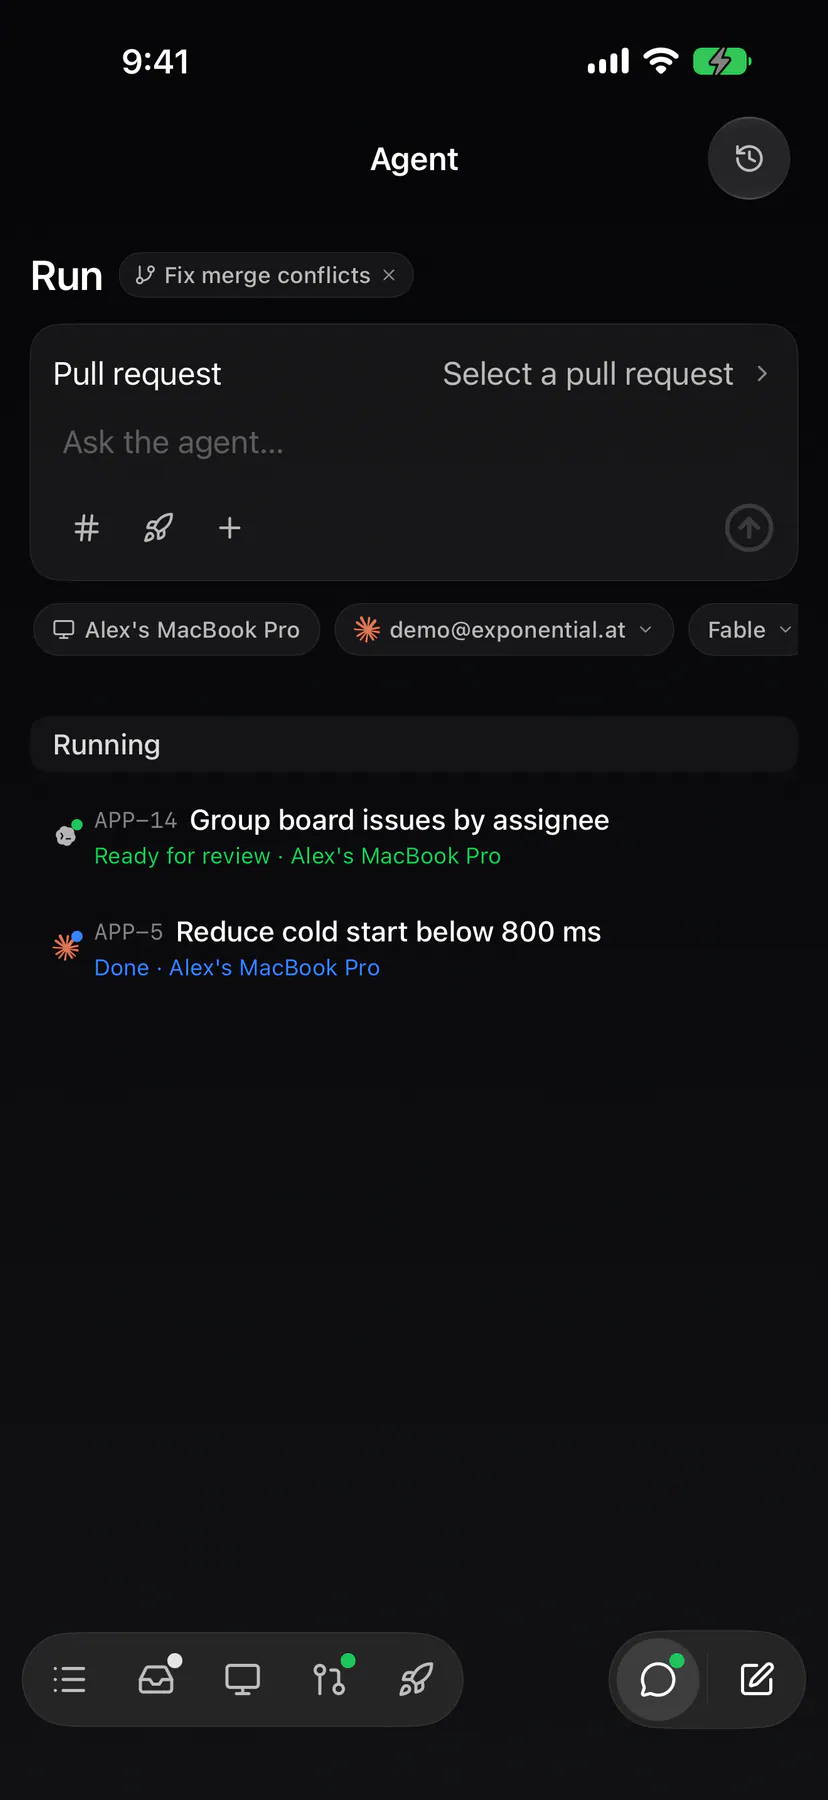
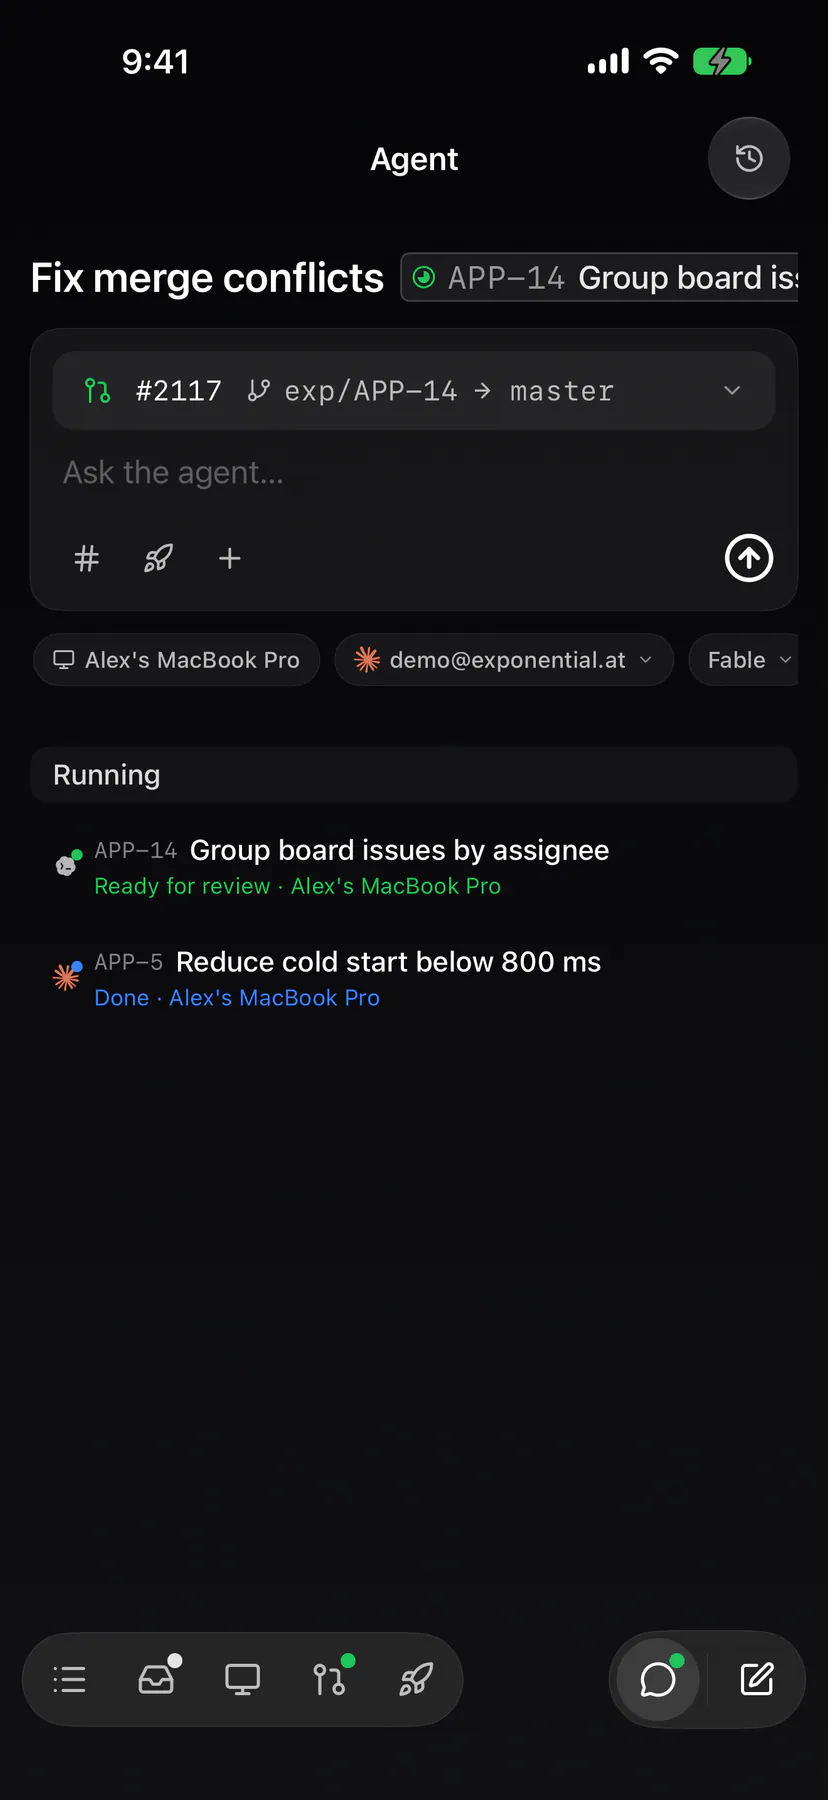
EXP-1233: iOS: the PR number verbatim (no locale grouping), a sturdier sg_chat-action pick; the ios chat-action shot

diff --git a/apps/ios/ExponentialUITests/StyleguideScreenshots.swift b/apps/ios/ExponentialUITests/StyleguideScreenshots.swift
@@ -447,8 +447,17 @@ final class StyleguideScreenshots: XCTestCase {
         // headline's verb + the PR's issue chip, the card's PR row.
         let fixCard = anyElement(app, identified: "agent-composer-fix-conflicts")
         XCTAssertTrue(fixCard.waitForExistence(timeout: 15), "No Fix merge conflicts card")
+        // The row is inert until the open-PR pool has synced: a tap that opens
+        // nothing is retried once the sheet's title has had time to appear.
+        let prSheet = app.staticTexts["Select a pull request"].firstMatch
         anyElement(app, identified: "agent-composer-fix-conflicts-pr").tap()
-        let prRow = app.staticTexts.matching(
+        if !prSheet.waitForExistence(timeout: 10) {
+            anyElement(app, identified: "agent-composer-fix-conflicts-pr").tap()
+            XCTAssertTrue(prSheet.waitForExistence(timeout: 20), "The PR picker did not open")
+        }
+        // A sheet row is a Button whose label is the option's `#N · IDENT`
+        // (the issue picker above matches its rows the same way, any type).
+        let prRow = app.descendants(matching: .any).matching(
             NSPredicate(format: "label BEGINSWITH %@ AND label CONTAINS %@", "#", "APP-14")
         ).firstMatch
         XCTAssertTrue(prRow.waitForExistence(timeout: 20), "The PR picker never listed APP-14's pull request")

diff --git a/apps/ios/Exponential/UI/Agent/FixConflictsCard.swift b/apps/ios/Exponential/UI/Agent/FixConflictsCard.swift
@@ -62,7 +62,7 @@ struct FixConflictsCard: View {
                 AppIcon(AppIcons.prOpen, size: 16)
                     .foregroundStyle(IssueStatus.inReview.color)
                 if let number = pr.prNumber {
-                    Text("#\(number)")
+                    Text(verbatim: "#\(number)")
                         .font(.subheadline.monospaced())
                         .foregroundStyle(.white.opacity(TextOpacity.primary))
                         .fixedSize()
